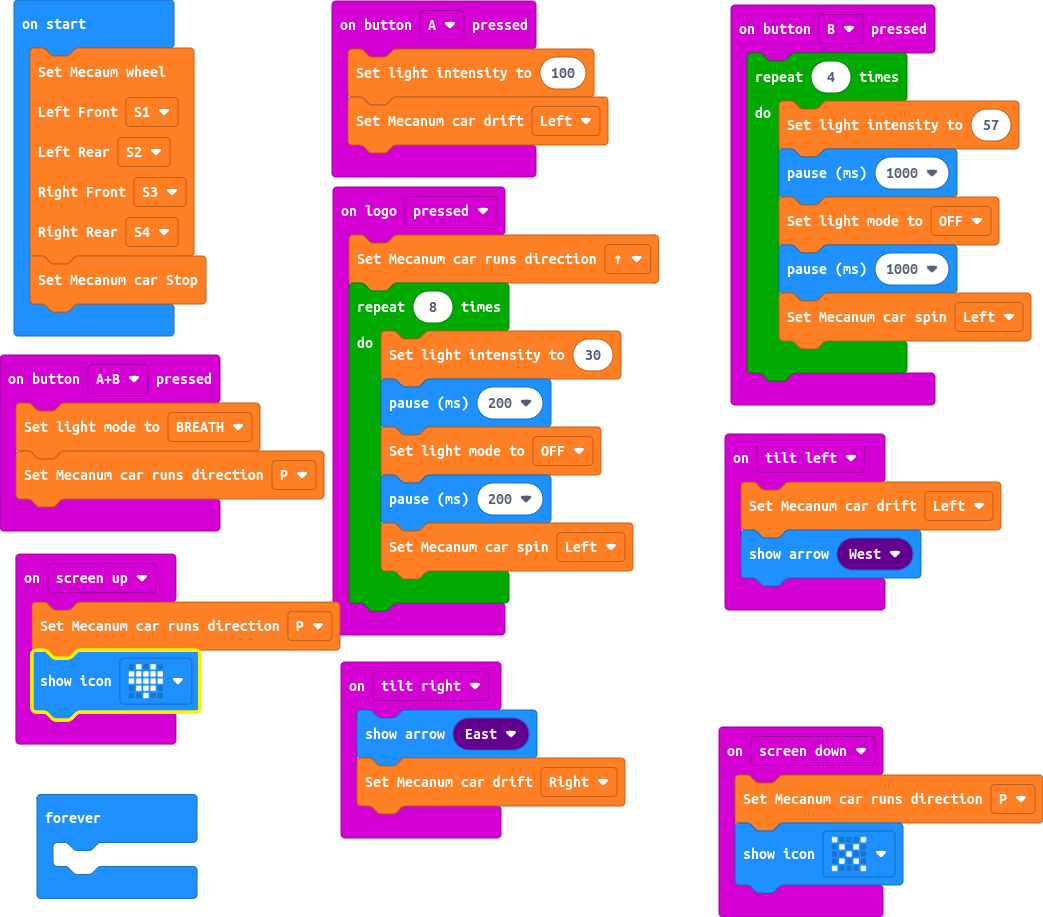
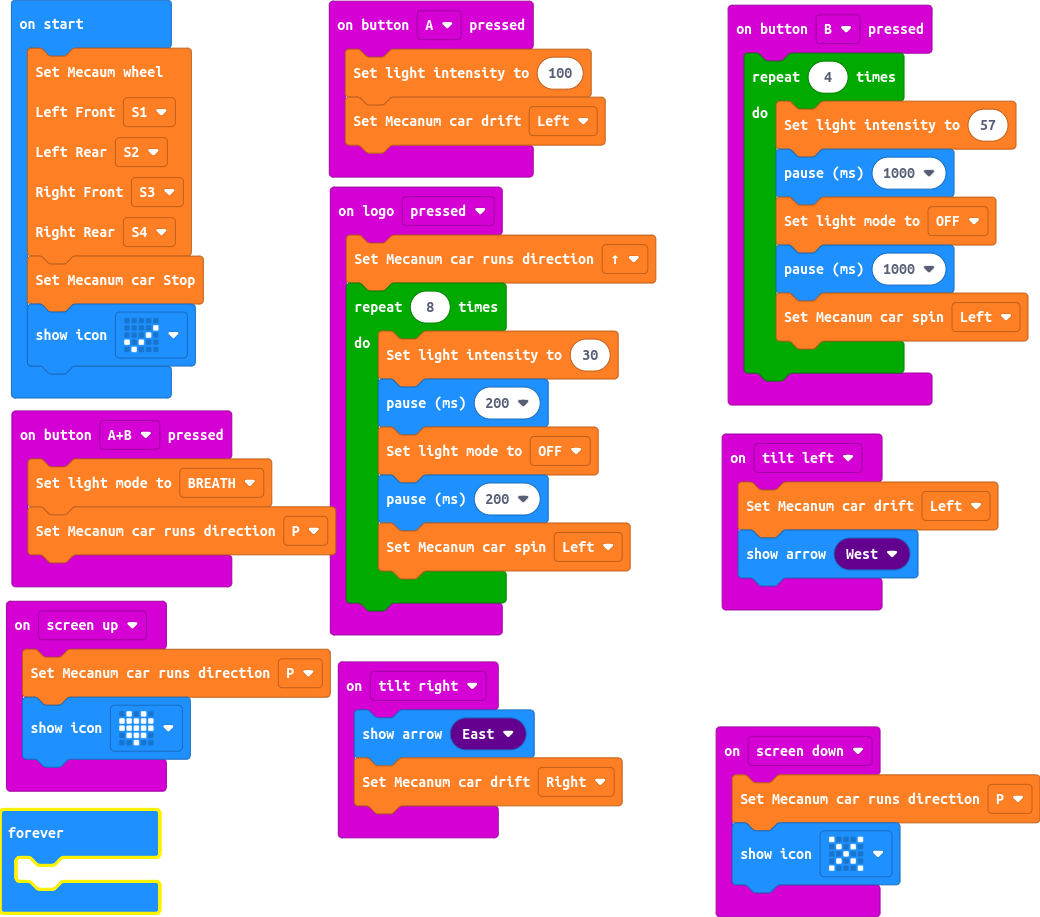
Update main.blocks, main.ts

diff --git a/main.ts b/main.ts
@@ -48,6 +48,7 @@ wuKong.ServoList.S3,
 wuKong.ServoList.S4
 )
 wuKong.mecanumStop()
+basic.showIcon(IconNames.Yes)
 basic.forever(function () {
 	
 })
